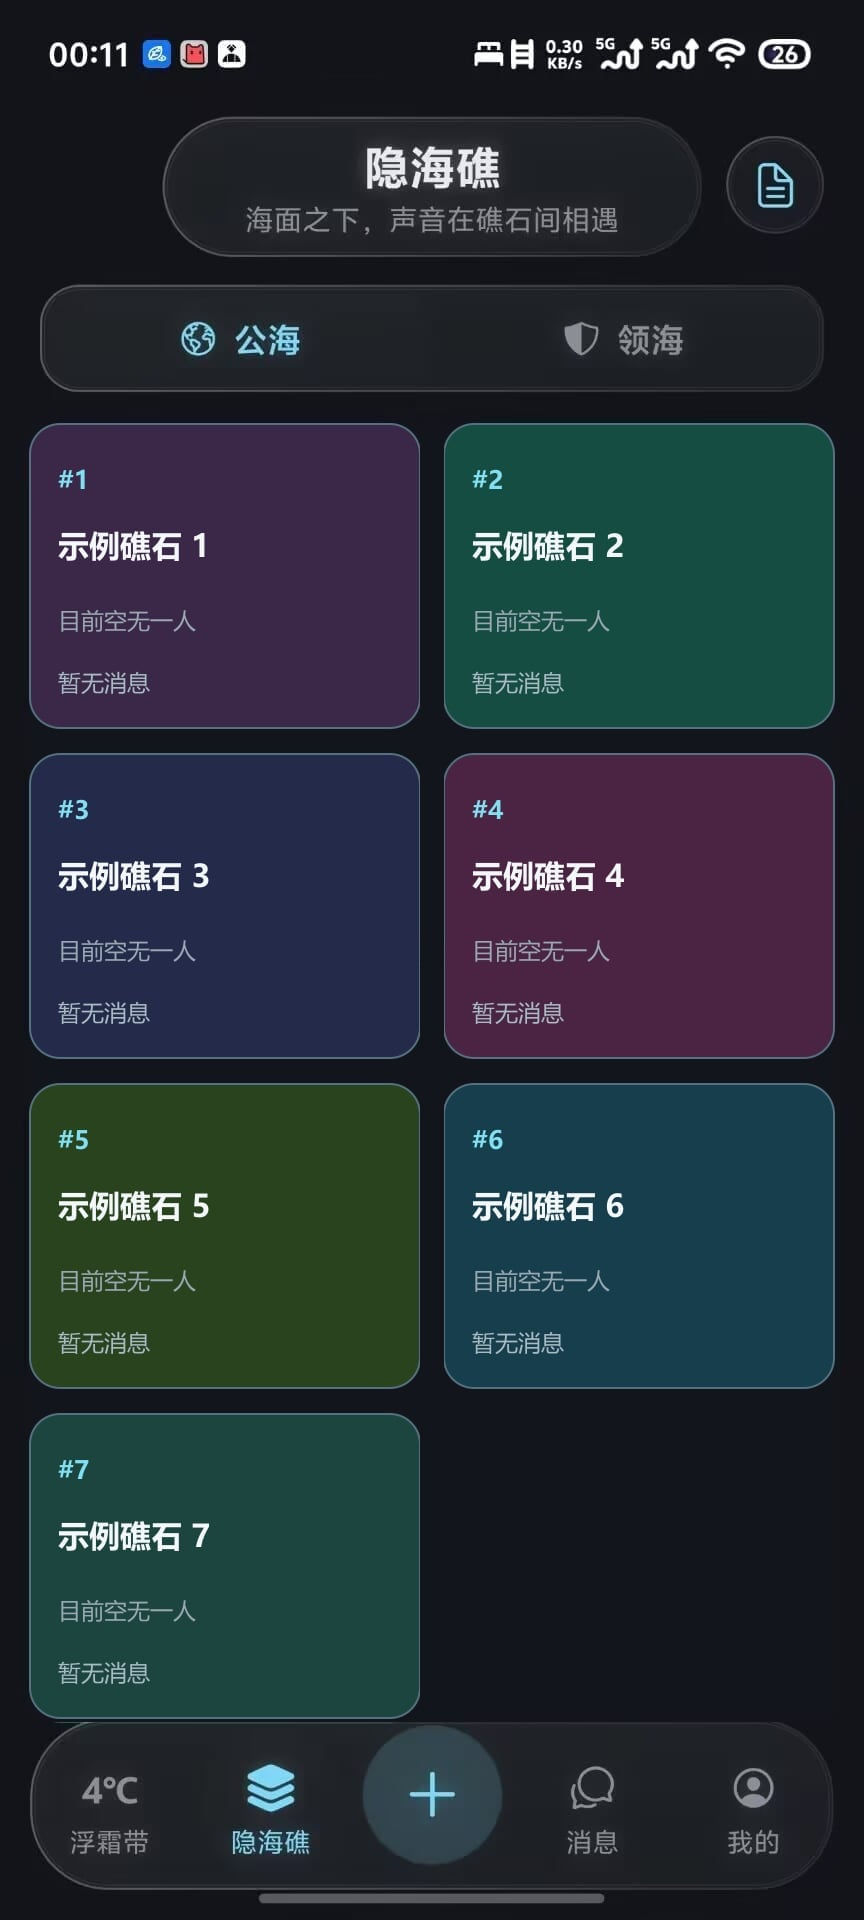
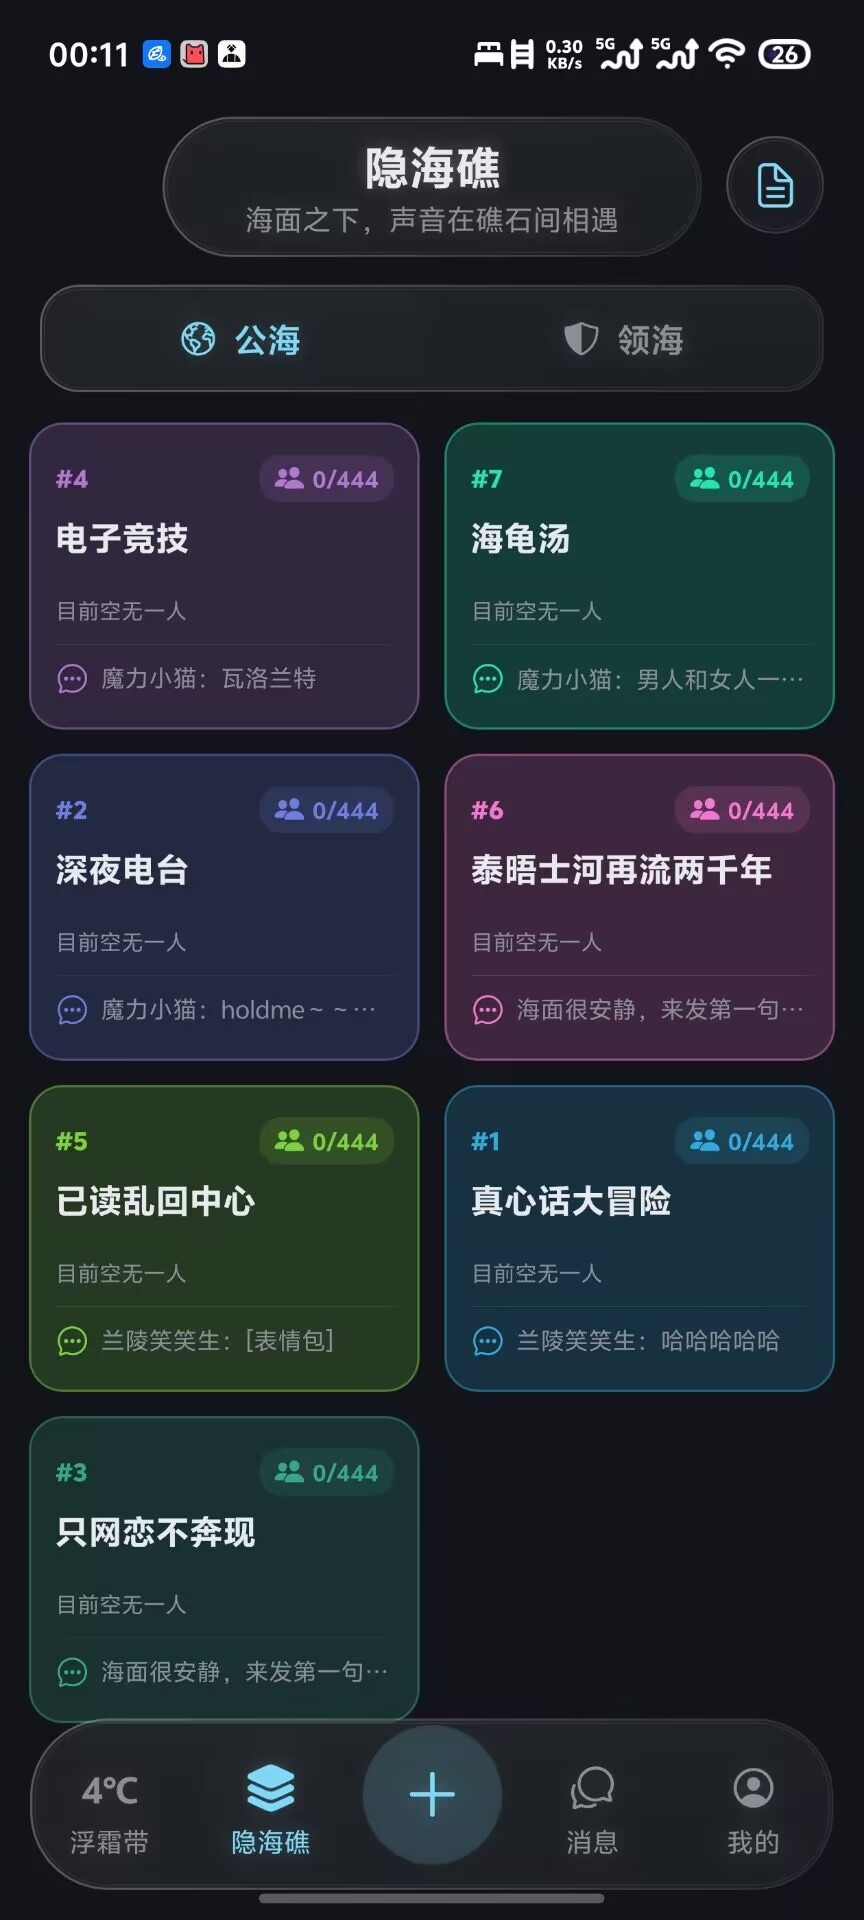
docs: restore production interface screenshots

diff --git a/README.md b/README.md
@@ -4,7 +4,7 @@
 
 ## APP 端
 
-以下截图展示移动端的主要页面与视觉风格，图中账号、内容和媒体均为脱敏后的演示数据。
+以下截图展示项目真实部署后的移动端主要页面与视觉风格。
 
 <p style="white-space: nowrap;">
   <img src="./docs/screenshots/app-feed.jpg" alt="APP 端浮霜带" width="180">
@@ -15,7 +15,7 @@
 
 ## 网页端
 
-以下截图展示浏览器端的首页与社区页面，图中账号、内容和媒体均为脱敏后的演示数据。
+以下截图展示项目真实部署后的网页首页与社区页面。
 
 <p>
   <img src="./docs/screenshots/web-home.png" alt="网页端首页" width="620">
